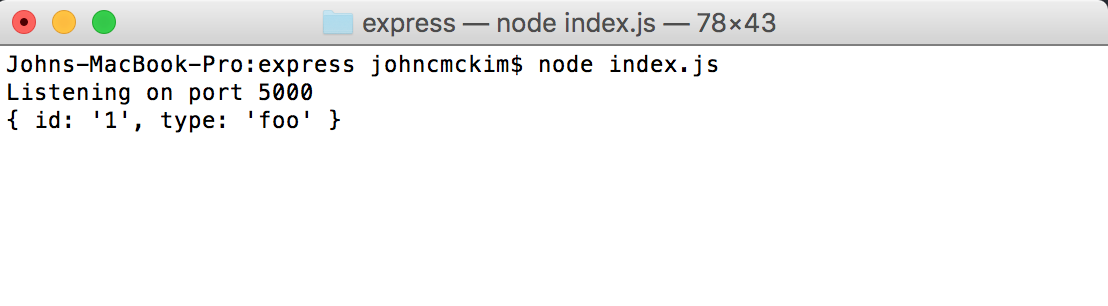
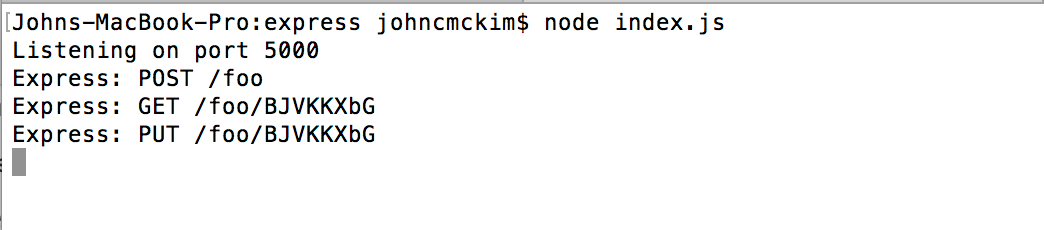
Add screenshots and request logging to express

Changed region(s): [[0.0, 0.1826, 0.6743, 0.7913], [0.0, 0.0, 1.0, 0.1522]]

diff --git a/express/index.js b/express/index.js
@@ -6,6 +6,10 @@ var fooService = require('./foo');
 var app = express();
 
 app.use(bodyParser.json()); // Parse JSON
+app.use(function (req, res, next) {
+  console.log('Express: ' + req.method + ' ' + req.path)
+  next();
+});
 
 app.get('/foo/:id', function (req, res) {
   var id = req.params.id;
